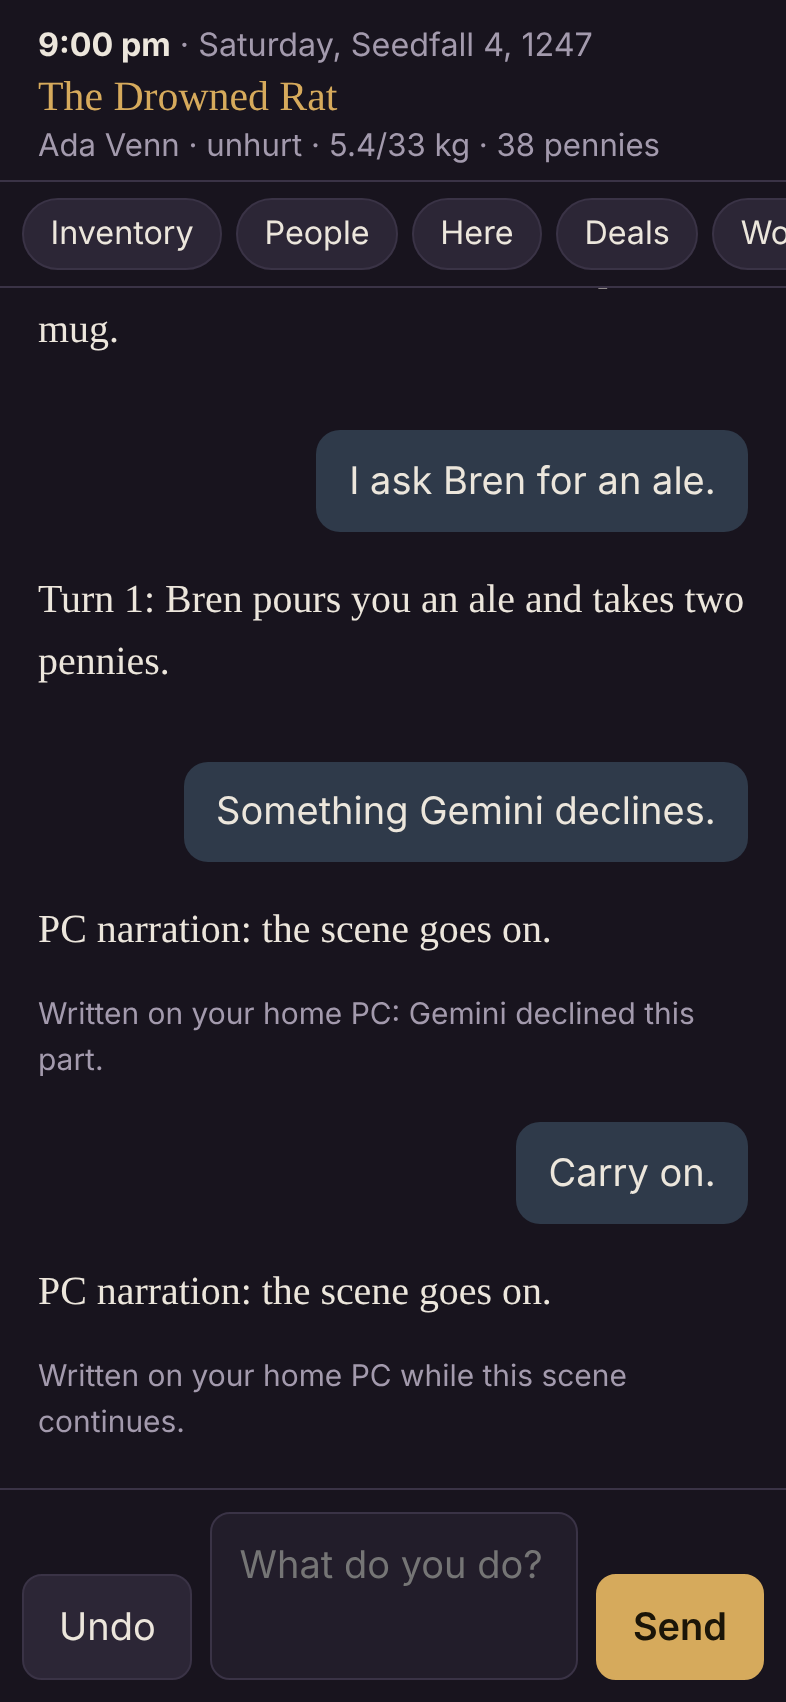
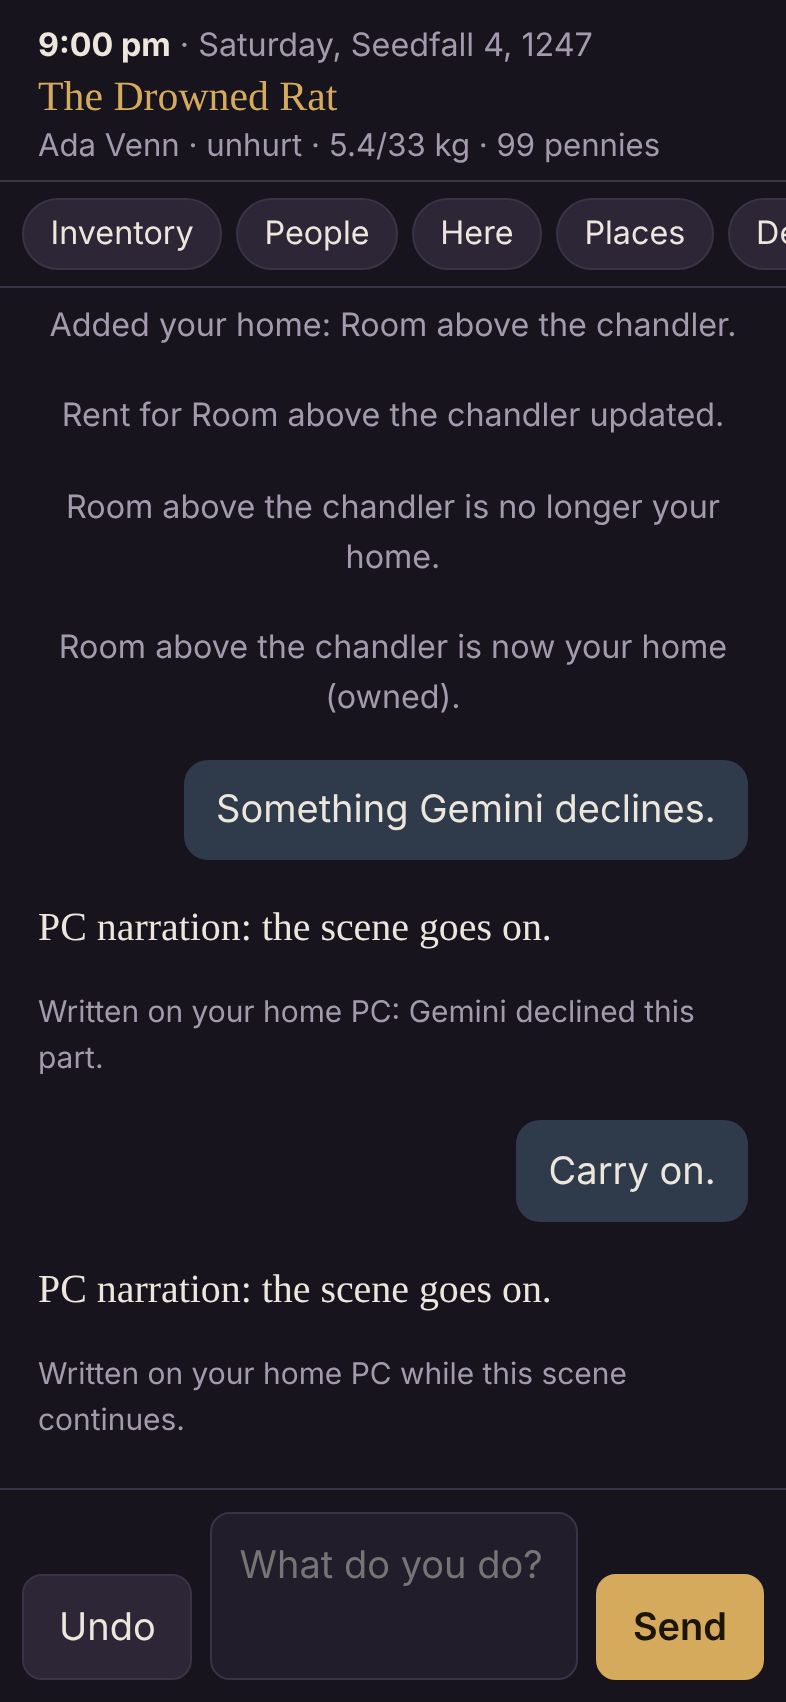
Build 31: Places tab with place cards and hand controls for homes and rent
Claude-Session: https://claude.ai/code/session_01KTifMWeXgEsckXU37s3UBw

diff --git a/js/game/homes.js b/js/game/homes.js
@@ -9,58 +9,112 @@ import { shortDate } from './clock.js';
 const str = (v, max) => String(v ?? '').trim().slice(0, max);
 
 /**
- * Adds a home.
+ * Adds a new place and makes it the player's home.
  *   data: { name, type, region, description, kind: 'owned'|'rented', travelMinutes,
  *           rent, rentEvery: 'week'|'month', rentDue, landlord: { name, sex, ... } | 'a name' | '' }
  *   before: true for a home the character had before the story began
  * Returns { place, landlord, deal }.
  */
 export function addHome(world, data, { before = false } = {}) {
-  const kind = data.kind === 'owned' ? 'owned' : 'rented';
   const place = makePlace(world, {
     name: str(data.name, 100) || 'Home', type: str(data.type, 60) || 'home', region: data.region,
     description: data.description,
   });
   if (world.currentPlaceId && world.currentPlaceId !== place.id) connectPlaces(world, world.currentPlaceId, place.id, data.travelMinutes || 20);
+  return { place, ...makeHome(world, place, data, { before }) };
+}
 
+/** Makes an existing place the player's home (or changes how it is held). Returns { landlord, deal }. */
+export function makeHome(world, place, data, { before = false } = {}) {
+  const kind = data.kind === 'owned' ? 'owned' : 'rented';
+  const since = place.home ? place.home.since : before ? 'before the story' : shortDate(world);
   let landlord = null;
   let landlordName = '';
   if (kind === 'rented') {
-    const l = data.landlord;
-    if (l && typeof l === 'object' && l.name) {
-      // A full description (from character creation): a proper card.
-      landlord = findPersonByName(world, l.name) || makePerson(world, { ...l, role: 'landlord' });
-      if (!landlord.life.role) landlord.life.role = 'landlord';
-      landlord.history.push({ date: before ? 'before the story' : shortDate(world), clock: world.clock, turn: world.turn, text: `Rents ${place.name} to the player.` });
-    } else if (typeof l === 'string' && l.trim()) {
-      // Just a name: the card is made when they first appear in the story.
-      landlord = findPersonByName(world, l);
-      landlordName = str(l, 80);
-    }
-    if (landlord) landlordName = landlord.fixed.name;
+    ({ landlord, landlordName } = resolveLandlord(world, place, data.landlord, { before }));
     place.owner = landlordName;
   } else {
     place.owner = world.people[world.playerId]?.fixed.name || 'the player';
+    // Owning the place ends any rent on it.
+    for (const d of rentDeals(world, place)) closeDeal(world, d, 'done', 'the player now owns the place');
   }
-  place.home = { kind, landlordId: landlord ? landlord.id : null, landlordName, since: before ? 'before the story' : shortDate(world) };
+  place.home = { kind, landlordId: landlord ? landlord.id : null, landlordName, since };
+  const deal = kind === 'rented' ? setRentDeal(world, place, data, { before }) : null;
+  return { landlord, deal };
+}
 
-  let deal = null;
-  if (kind === 'rented') {
-    const rent = Math.max(0, Math.round(Number(data.rent) || 0));
-    const every = data.rentEvery === 'week' ? 'week' : 'month';
-    const who = landlordName || 'the landlord';
-    const terms = rent
-      ? `Rent for ${place.name}: ${money(world, rent)} a ${every}, paid to ${who}.`
-      : `Rent for ${place.name}, paid to ${who}: the amount is not settled yet; when it matters, make it a fair ${every}ly rent for this setting.`;
-    deal = {
-      id: newId(world, 'd'), personId: landlord ? landlord.id : null, withName: who, homeId: place.id,
-      terms, due: str(data.rentDue, 120) || (every === 'week' ? 'every week' : 'the 1st of each month'),
-      status: 'open', made: before ? 'before the story' : shortDate(world), madeTurn: world.turn, notes: [],
-    };
-    world.deals = world.deals || [];
-    world.deals.push(deal);
+/** Stops a place being the player's home; the rent deal can be closed with it. */
+export function endHome(world, place, { closeRent = true } = {}) {
+  if (!place.home) return;
+  if (closeRent) for (const d of rentDeals(world, place)) closeDeal(world, d, 'done', 'no longer the player\'s home');
+  if (place.owner === world.people[world.playerId]?.fixed.name) place.owner = '';
+  delete place.home;
+}
+
+/** Changes the landlord and/or rent of a rented home, keeping one open rent deal in step. */
+export function updateRent(world, place, data) {
+  if (!place.home || place.home.kind !== 'rented') return null;
+  if (data.landlord !== undefined && String(data.landlord).trim() !== place.home.landlordName) {
+    const { landlord, landlordName } = resolveLandlord(world, place, data.landlord, {});
+    place.home.landlordId = landlord ? landlord.id : null;
+    place.home.landlordName = landlordName;
+    place.owner = landlordName;
   }
-  return { place, landlord, deal };
+  return setRentDeal(world, place, data, {});
+}
+
+export function rentDeals(world, place) {
+  return (world.deals || []).filter((d) => d.homeId === place.id && d.status === 'open');
+}
+
+function closeDeal(world, d, status, why) {
+  d.status = status;
+  d.closed = shortDate(world);
+  d.notes.push(`${shortDate(world)}: ${why}`);
+}
+
+function resolveLandlord(world, place, l, { before }) {
+  let landlord = null;
+  let landlordName = '';
+  if (l && typeof l === 'object' && l.name) {
+    // A full description (from character creation): a proper card.
+    landlord = findPersonByName(world, l.name) || makePerson(world, { ...l, role: 'landlord' });
+    if (!landlord.life.role) landlord.life.role = 'landlord';
+    landlord.history.push({ date: before ? 'before the story' : shortDate(world), clock: world.clock, turn: world.turn, text: `Rents ${place.name} to the player.` });
+  } else if (typeof l === 'string' && l.trim()) {
+    // Just a name: the card is made when they first appear in the story.
+    landlord = findPersonByName(world, l);
+    landlordName = str(l, 80);
+  }
+  if (landlord) landlordName = landlord.fixed.name;
+  return { landlord, landlordName };
+}
+
+/** Writes the rent deal for a rented home from its current landlord and the given rent. */
+function setRentDeal(world, place, data, { before }) {
+  const h = place.home;
+  const rent = Math.max(0, Math.round(Number(data.rent) || 0));
+  const every = data.rentEvery === 'week' ? 'week' : 'month';
+  const who = h.landlordName || 'the landlord';
+  const terms = rent
+    ? `Rent for ${place.name}: ${money(world, rent)} a ${every}, paid to ${who}.`
+    : `Rent for ${place.name}, paid to ${who}: the amount is not settled yet; when it matters, make it a fair ${every}ly rent for this setting.`;
+  const due = str(data.rentDue, 120) || (every === 'week' ? 'every week' : 'the 1st of each month');
+  world.deals = world.deals || [];
+  const [existing, ...extra] = rentDeals(world, place);
+  for (const d of extra) closeDeal(world, d, 'done', 'replaced by the current rent terms');
+  if (existing) {
+    if (existing.terms !== terms || existing.due !== due) existing.notes.push(`${shortDate(world)}: terms changed (was: ${existing.terms})`);
+    Object.assign(existing, { terms, due, personId: h.landlordId, withName: who, rent, rentEvery: every });
+    return existing;
+  }
+  const deal = {
+    id: newId(world, 'd'), personId: h.landlordId, withName: who, homeId: place.id,
+    terms, due, rent, rentEvery: every,
+    status: 'open', made: before ? 'before the story' : shortDate(world), madeTurn: world.turn, notes: [],
+  };
+  world.deals.push(deal);
+  return deal;
 }
 
 export function homes(world) {

diff --git a/js/ui/places-screen.js b/js/ui/places-screen.js
@@ -1,0 +1,139 @@
+// Places: every place the game knows, with a card for each and the controls
+// for marking, changing or ending the player's home by hand.
+
+import { h, overlay } from './dom.js';
+import { directlyHeld } from '../game/inventory.js';
+import { saveWorld } from '../game/saves.js';
+import { makeHome, endHome, updateRent, rentDeals } from '../game/homes.js';
+import { openAddPlace } from './place-screen.js';
+
+function homeLabel(pl) {
+  if (!pl.home) return '';
+  return pl.home.kind === 'owned' ? 'Your home (owned)' : `Your home (rented${pl.home.landlordName ? ' from ' + pl.home.landlordName : ''})`;
+}
+
+/** Travel time from where the player is, if a route is known. */
+function fromHere(w, pl) {
+  if (pl.id === w.currentPlaceId) return 'you are here';
+  const here = w.places[w.currentPlaceId];
+  const c = here && here.connections.find((x) => x.placeId === pl.id);
+  return c ? `${c.minutes} min from here` : '';
+}
+
+export function openPlaces(ctx, onChange) {
+  const body = h('div');
+  const changed = () => { render(); onChange && onChange(); };
+  function render() {
+    const w = ctx.world;
+    const rank = (pl) => (pl.id === w.currentPlaceId ? 0 : pl.home ? 1 : 2);
+    const list = Object.values(w.places).sort((a, b) => rank(a) - rank(b) || a.name.localeCompare(b.name));
+    body.replaceChildren(
+      h('p.hint', 'Every place the game knows. Tap one to see its card or to make it your home. To go somewhere, type it as an action.'),
+      ...list.map((pl) => h('button.list-btn', { type: 'button', onclick: () => openPlaceCard(ctx, pl, changed) },
+        pl.name,
+        h('small', [pl.home ? '🏠 ' + homeLabel(pl) : '', [pl.type, pl.region].filter(Boolean).join(' · '), fromHere(w, pl)].filter(Boolean).join(' · ')))),
+      h('div.row', h('button', { type: 'button', onclick: () => { panel.close(); openAddPlace(ctx, onChange); } }, 'Add a place you know')));
+  }
+  render();
+  const panel = overlay('Places', body);
+  return panel;
+}
+
+/** The fields for a rented home: landlord, rent, how often, when due. */
+function rentFields(w, pl) {
+  const deal = rentDeals(w, pl)[0];
+  const landlord = h('input', { value: pl.home?.landlordName || '', placeholder: 'Optional: e.g. Mrs. Russo' });
+  const rent = h('input', { type: 'number', min: 0, inputmode: 'numeric', value: deal?.rent || '', placeholder: 'Optional', style: { width: '8em' } });
+  const every = h('select', h('option', { value: 'month', selected: deal?.rentEvery !== 'week' }, 'a month'), h('option', { value: 'week', selected: deal?.rentEvery === 'week' }, 'a week'));
+  const due = h('input', { value: deal?.due || '', placeholder: 'Optional: e.g. the 1st of each month' });
+  const el = h('div',
+    h('label', 'Landlord', landlord, h('small.dim', ' Leave blank and the game invents one when it matters.')),
+    h('div.row', h('label', 'Rent', rent), every),
+    h('p.hint', 'Leave the rent blank and the game picks a fair amount for the setting.'),
+    h('label', 'Due', due));
+  return { el, values: () => ({ landlord: landlord.value.trim(), rent: Number(rent.value) || 0, rentEvery: every.value, rentDue: due.value.trim() }) };
+}
+
+export function openPlaceCard(ctx, pl, onChange) {
+  const w = ctx.world;
+  const ground = directlyHeld(w, pl.id);
+  const homeBox = h('div.card-block');
+  const done = async (note) => {
+    w.log.push({ turn: w.turn, kind: 'system', text: note });
+    await saveWorld(w);
+    panel.close();
+    onChange && onChange();
+    openPlaceCard(ctx, pl, onChange);
+  };
+
+  function homeView() {
+    if (!pl.home) {
+      homeBox.replaceChildren(h('h3', 'Home'),
+        h('p.hint', 'Not your home.'),
+        h('button', { type: 'button', onclick: makeForm }, 'Make this my home'));
+      return;
+    }
+    const deal = rentDeals(w, pl)[0];
+    homeBox.replaceChildren(h('h3', 'Home'),
+      h('p', homeLabel(pl) + (pl.home.since ? `, since ${pl.home.since}` : '')),
+      deal ? h('p.hint', `${deal.terms} Due: ${deal.due}.`) : null,
+      h('div.row',
+        pl.home.kind === 'rented' ? h('button', { type: 'button', onclick: rentForm }, 'Change landlord or rent') : null,
+        h('button', { type: 'button', onclick: endForm }, 'No longer my home')));
+  }
+
+  function makeForm() {
+    const kind = h('select', h('option', { value: 'rented' }, 'I rent it'), h('option', { value: 'owned' }, 'I own it'));
+    const rent = rentFields(w, pl);
+    kind.addEventListener('change', () => { rent.el.style.display = kind.value === 'rented' ? '' : 'none'; });
+    homeBox.replaceChildren(h('h3', 'Make this my home'), h('label', 'How do you hold it?', kind), rent.el,
+      h('div.row',
+        h('button.primary', { type: 'button', onclick: () => {
+          makeHome(w, pl, { kind: kind.value, ...(kind.value === 'rented' ? rent.values() : {}) });
+          done(`${pl.name} is now your home (${kind.value}).`);
+        } }, 'Save'),
+        h('button', { type: 'button', onclick: homeView }, 'Cancel')));
+  }
+
+  function rentForm() {
+    const rent = rentFields(w, pl);
+    homeBox.replaceChildren(h('h3', 'Change landlord or rent'), rent.el,
+      h('div.row',
+        h('button.primary', { type: 'button', onclick: () => {
+          updateRent(w, pl, rent.values());
+          done(`Rent for ${pl.name} updated.`);
+        } }, 'Save'),
+        h('button', { type: 'button', onclick: homeView }, 'Cancel')));
+  }
+
+  function endForm() {
+    const deal = rentDeals(w, pl)[0];
+    const close = h('input', { type: 'checkbox', checked: true });
+    homeBox.replaceChildren(h('h3', 'No longer my home'),
+      h('p.hint', `${pl.name} stays on the list as a place you know.`),
+      deal ? h('label.switch', 'Mark the rent deal as done', close) : null,
+      h('div.row',
+        h('button.primary', { type: 'button', onclick: () => {
+          endHome(w, pl, { closeRent: !deal || close.checked });
+          done(`${pl.name} is no longer your home.`);
+        } }, 'Confirm'),
+        h('button', { type: 'button', onclick: homeView }, 'Cancel')));
+  }
+
+  homeView();
+  const body = h('div',
+    h('div.card-block',
+      h('h3', [pl.type, pl.region].filter(Boolean).join(' · ') || 'Place'),
+      pl.description ? h('p', pl.description) : null,
+      h('dl.kv',
+        h('dt', 'State'), h('dd', pl.state),
+        pl.owner ? [h('dt', 'Owner'), h('dd', pl.owner)] : null,
+        pl.usual ? [h('dt', 'Usually'), h('dd', pl.usual)] : null,
+        fromHere(w, pl) ? [h('dt', 'Distance'), h('dd', fromHere(w, pl))] : null)),
+    homeBox,
+    h('div.card-block', h('h3', 'Routes from here'),
+      pl.connections.length ? h('ul.plain', pl.connections.map((c) => h('li', `${w.places[c.placeId]?.name} — ${c.minutes} min`))) : h('p.hint', 'None known yet.')),
+    ground.length ? h('div.card-block', h('h3', 'Left here'), h('p', ground.map((i) => i.name + (i.qty > 1 ? ` ×${i.qty}` : '')).join(', '))) : null);
+  const panel = overlay(pl.name, body);
+  return panel;
+}

diff --git a/tests/game.test.js b/tests/game.test.js
@@ -623,3 +623,26 @@ test('the referee allows going to places not yet recorded', async () => {
   assert.match(calls[0].req.system, /A place does not need to be in the packet/);
   assert.match(calls[1].req.system, /Never invent facts about the player character's own life/);
 });
+
+test('homes can be made, changed and ended by hand', async () => {
+  const { makeHome, endHome, updateRent, rentDeals } = await import('../js/game/homes.js');
+  const w = newGame();
+  const wall = Object.values(w.places).find((p) => p.name === 'Harbour Wall');
+  makeHome(w, wall, { kind: 'rented', landlord: 'Old Marta', rent: 5, rentEvery: 'week' });
+  assert.equal(rentDeals(w, wall).length, 1);
+  assert.match(rentDeals(w, wall)[0].terms, /5 pennies a week, paid to Old Marta/);
+  // A new landlord and rent update the same deal, with a note of the old terms.
+  updateRent(w, wall, { landlord: 'Tomas Reed', rent: 8, rentEvery: 'week' });
+  const deal = rentDeals(w, wall)[0];
+  assert.equal(rentDeals(w, wall).length, 1);
+  assert.equal(deal.personId, Object.values(w.people).find((p) => p.fixed.name === 'Tomas Reed').id);
+  assert.match(deal.terms, /8 pennies a week, paid to Tomas Reed/);
+  assert.match(deal.notes[0], /was: Rent for Harbour Wall: 5 pennies/);
+  // Buying it ends the rent; giving it up ends the home.
+  makeHome(w, wall, { kind: 'owned' });
+  assert.equal(rentDeals(w, wall).length, 0);
+  assert.equal(deal.status, 'done');
+  assert.equal(wall.home.kind, 'owned');
+  endHome(w, wall);
+  assert.equal(wall.home, undefined);
+});

diff --git a/js/ui/play.js b/js/ui/play.js
@@ -16,6 +16,7 @@ import { openPeople } from './people-screen.js';
 import { openPlace } from './place-screen.js';
 import { openConsole } from './console-screen.js';
 import { openDeals } from './deals-screen.js';
+import { openPlaces } from './places-screen.js';
 import { openSettings } from './settings-screen.js';
 
 /**
@@ -33,6 +34,7 @@ export async function renderPlay(root, ctx) {
     h('button.chip', { type: 'button', onclick: () => openInventory(ctx, refresh) }, 'Inventory'),
     h('button.chip', { type: 'button', onclick: () => openPeople(ctx) }, 'People'),
     h('button.chip', { type: 'button', onclick: () => openPlace(ctx, refresh) }, 'Here'),
+    h('button.chip', { type: 'button', onclick: () => openPlaces(ctx, refresh) }, 'Places'),
     h('button.chip', { type: 'button', onclick: () => openDeals(ctx, refresh) }, 'Deals'),
     h('button.chip', { type: 'button', onclick: () => (busy ? toast('Wait for this turn to finish first') : ctx.goHome()) }, 'Worlds'),
     h('button.chip', { type: 'button', onclick: () => openConsole(ctx) }, 'Console'),

diff --git a/js/ui/console-screen.js b/js/ui/console-screen.js
@@ -50,7 +50,7 @@ export function openConsole(ctx) {
             h('td.num', h('small', `${r.tokensIn ?? '?'}/${r.tokensOut ?? '?'}${r.thinking ? ` +${r.thinking} thinking` : ''}`))))))))
         : h('p.hint', 'No requests recorded yet.');
     } else if (tab === 'error') {
-      const text = lastError ? JSON.stringify({ ...lastError, at: new Date(lastError.at).toISOString(), build: 30 }, null, 2) : '';
+      const text = lastError ? JSON.stringify({ ...lastError, at: new Date(lastError.at).toISOString(), build: 31 }, null, 2) : '';
       content = lastError ? h('div', h('button', { type: 'button', onclick: () => copy(text) }, 'Copy'), h('pre.raw', text)) : h('p.hint', 'No errors recorded.');
     } else if (tab === 'last') {
       const text = JSON.stringify(w.debug || {}, null, 2);

diff --git a/js/ui/settings-screen.js b/js/ui/settings-screen.js
@@ -182,7 +182,7 @@ export async function openSettings({ onClose } = {}) {
         modelList,
         h('p.hint', 'Tap "Check key" above to turn these into lists of the models your key can use. If the game-master model is busy, the game asks the world-building model instead, then your home PC if it is set up.'),
         h('button', { type: 'button', onclick: saveModels }, 'Save models and limits'))),
-    h('p.hint.center', 'Living World · stage 1 · build 30'));
+    h('p.hint.center', 'Living World · stage 1 · build 31'));
 
   renderUsage();
   return overlay('Settings', body, { onClose: () => { unsubscribe(); onClose && onClose(); } });

diff --git a/js/ui/dom.js b/js/ui/dom.js
@@ -81,6 +81,8 @@ export function whenVisible() {
 export const INTERRUPTED = ['network', 'aborted', 'timeout', 'server', 'empty', 'bad_json'];
 
 export function toast(message, ms = 3000) {
+  // One message at a time: a new one replaces any still showing.
+  document.querySelectorAll('.toast').forEach((old) => old.remove());
   const t = h('div.toast', message);
   document.body.append(t);
   setTimeout(() => t.remove(), ms);

diff --git a/README.md b/README.md
@@ -21,6 +21,7 @@ A single-player text RPG where an AI game master narrates any world you describe
   - the narrator is told the exact time of day every turn; reference codes like [p29] are removed from the story
   - money is only the money number: cash items are refused, every money change shows as a note under the turn, Fix money in Inventory, and old cash items can be folded into money
   - homes: owned or rented, made with the character (landlord card and rent deal), shown to the game master every turn; "Add a place you know" in Here for existing worlds
+  - Places tab: every known place with its card; make a place your home, change landlord or rent, or end it by hand
   - no second pair of the same worn clothing; the referee allows travel to places not yet recorded
   - Check connection says which link to the home PC is broken (phone, PC, LM Studio, CORS)
   - automatic saves, plus Export and Import backups
